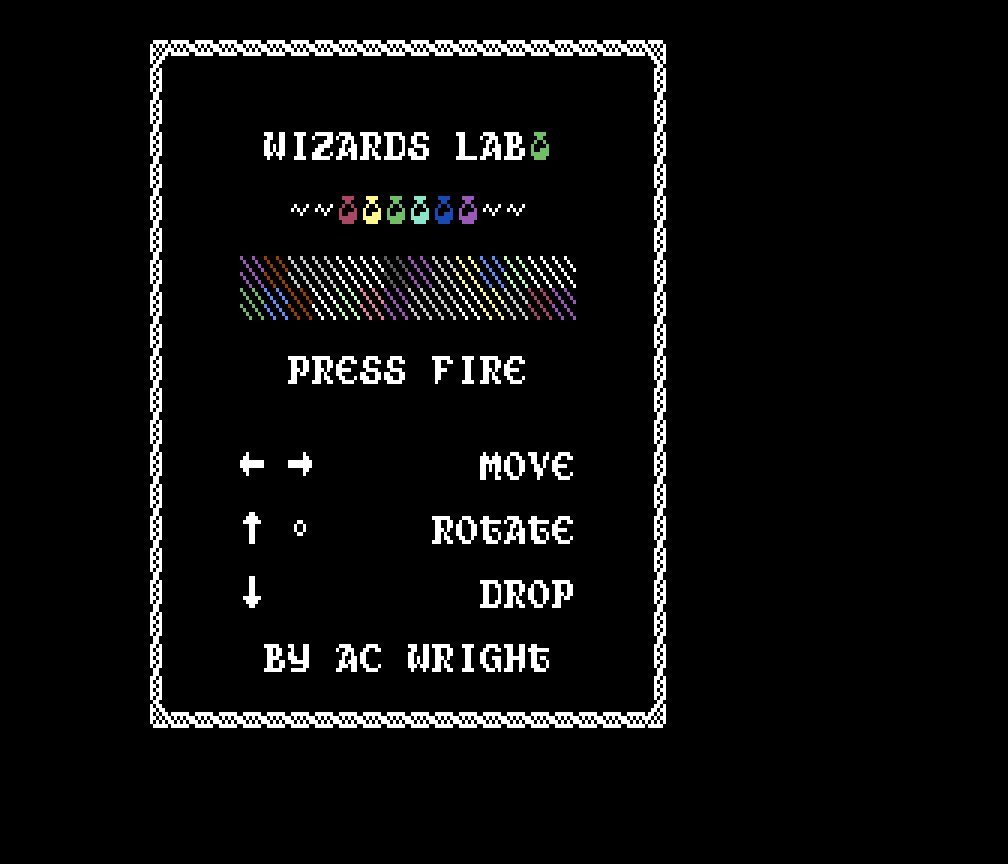
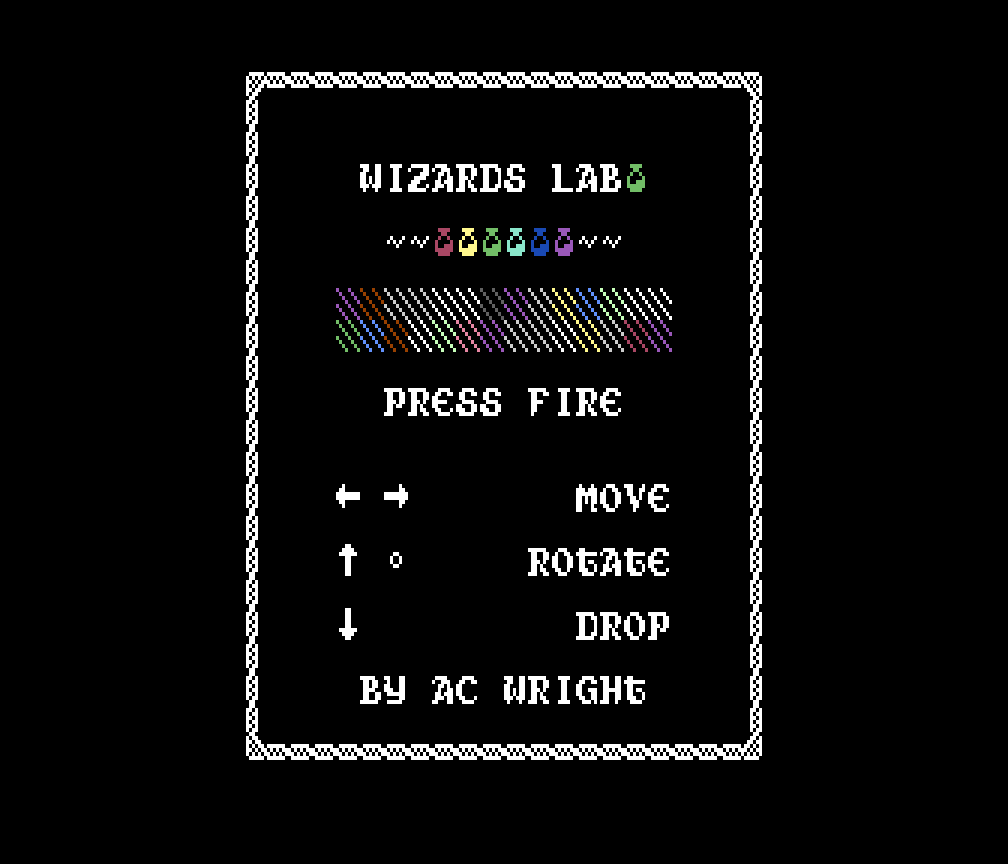
Measure the grid on the play shot, not on a screen that is mostly black
The C64 title shot came out four columns left and a row high, with the panel
jammed into the corner and black filling the rest.

read-screen.py finds the character grid by fitting the tileset outward from
the first inked pixel, so the candidate origins it tries are all within one
cell of that pixel. That is sound when the ink reaches the edges of the
screen, which on a play screen it does — the brick margin runs into all four
corners. A title screen is black almost everywhere and its first ink is the
panel's own frame, nine columns in on the C64, so the fit anchors on the panel
instead of on the screen and comes back (64, 31) where the truth is (32, 23).
The VIC-20's title was out by a row for the same reason, which cost it the
bottom of its frame.

So ask the question where it can be answered: the origin is measured once per
machine on that machine's play shot and used for both. This is not a
workaround for the fit — it is the right place to ask. The origin is a
property of the emulator's captured frame, how much border VICE puts around
the screen, and not of the picture inside it, and both of a machine's shots
come off the same emulator in the same run of tools/screenshots.py.

Checked rather than assumed, since a wrong origin is exactly what this fixes:
the one-cell border the crop leaves is the machine's own backdrop, black on
both (SPEC 4.3), so any ink in it means the screen has bled into its frame and
the build stops.
[…]

Changed region(s): [[0.123, 0.0312, 0.7688, 0.9062], [0.3383, 0.625, 0.3998, 0.6562], [0.3383, 0.5625, 0.3998, 0.5938]]

diff --git a/tools/itch.py b/tools/itch.py
@@ -39,6 +39,12 @@ import zipfile
 
 from PIL import Image
 
+# The version the download is named for. Kept in step with the git tag and the
+# GitHub release, so a zip someone downloaded a year ago can be traced back to
+# the commit that built it: v1.0.0 here is the tag v1.0.0 is the release
+# v1.0.0. Override with `make VERSION=v1.1.0 itch`.
+VERSION = "v1.0.0"
+
 ROOT = os.path.dirname(os.path.dirname(os.path.abspath(__file__)))
 OUT = os.path.join(ROOT, "itch")
 IMAGES = os.path.join(OUT, "images")
@@ -274,6 +280,9 @@ def reagent_card():
 SCALE = (3, 4)
 BORDER_CELLS = 1
 
+# Where the grid is measured, per platform. See grid_origin().
+ANCHOR = {"C64": "c64-play.png", "VIC20": "vic20-play.png"}
+
 SHOTS = [
     ("c64-play.png",    "screenshot-1-c64-play.png",    "C64"),
     ("c64-title.png",   "screenshot-2-c64-title.png",   "C64"),
@@ -282,26 +291,60 @@ SHOTS = [
 ]
 
 
+def grid_origin(read_screen, plat):
+    """Where the character grid starts in this machine's captured frame.
+
+    Measured on the PLAY shot and used for both of that machine's shots.
+    read-screen.py finds the origin by fitting the tileset outward from the
+    first inked pixel, which needs ink at the edges of the SCREEN to land on
+    the right cell. The play screens have it — the brick margin runs into all
+    four corners. The title screens do not: they are black almost everywhere,
+    the first ink is the panel's own frame several cells in, and the fit comes
+    back four columns and a row out on the C64.
+
+    Measuring the play shot instead is not a workaround for that, it is the
+    right place to ask. The origin is a property of the emulator's captured
+    frame — how much border VICE puts around the screen — and not of the
+    picture inside it, and both of a machine's shots come off the same
+    emulator in the same run of tools/screenshots.py.
+    """
+    return read_screen.read_screen(
+        os.path.join(ROOT, "docs", ANCHOR[plat]), plat)[2]
+
+
 def screenshots():
     sys.path.insert(0, os.path.join(ROOT, "tools"))
     read_screen = __import__("importlib").import_module("read-screen")
+    origin = {plat: grid_origin(read_screen, plat) for plat in ANCHOR}
 
     out = []
     for src, dst, plat in SHOTS:
         cfg = read_screen.PLATFORMS[plat]
-        path = os.path.join(ROOT, "docs", src)
-        _, _, (ox, oy) = read_screen.read_screen(path, plat)
+        ox, oy = origin[plat]
 
         cw = 8 * cfg["xscale"]
+        gw, gh = cfg["cols"] * cw, cfg["rows"] * 8
         bx, by = BORDER_CELLS * cw, BORDER_CELLS * 8
-        w, h = cfg["cols"] * cw + 2 * bx, cfg["rows"] * 8 + 2 * by
+        w, h = gw + 2 * bx, gh + 2 * by
 
         # Paste rather than crop, so a frame that runs off the edge of the
         # emulator's own picture is padded with backdrop instead of shifting
         # the grid back off centre.
-        im = Image.open(path).convert("RGB")
+        im = Image.open(os.path.join(ROOT, "docs", src)).convert("RGB")
         framed = Image.new("RGB", (w, h), PALETTE[0])
         framed.paste(im, (bx - ox, by - oy))
+
+        # The border this leaves is one cell of the machine's own backdrop,
+        # which is black on both (SPEC 4.3). So if any of it is not black, the
+        # grid is not where the origin says and the screen has bled into its
+        # own frame — which is exactly the failure a title shot produced when
+        # its origin was fitted from itself.
+        ring = framed.copy()
+        ring.paste(PALETTE[0], (bx, by, bx + gw, by + gh))
+        if ring.getbbox():
+            sys.exit(f"itch: {src} is not on the grid at ({ox}, {oy}) — the "
+                     f"screen bleeds into its border. Has the emulator's "
+                     f"captured frame changed? Re-run `make screenshots`.")
 
         sx, sy = SCALE
         framed = framed.resize((w * sx, h * sy), Image.NEAREST)
@@ -436,7 +479,7 @@ def zip_carts(version):
 
 def main():
     os.makedirs(IMAGES, exist_ok=True)
-    version = (sys.argv[1] if len(sys.argv) > 1 else "v1.0")
+    version = (sys.argv[1] if len(sys.argv) > 1 else VERSION)
 
     made = [cover(), background(), reagent_card()] + screenshots()
     for name, size in made:
